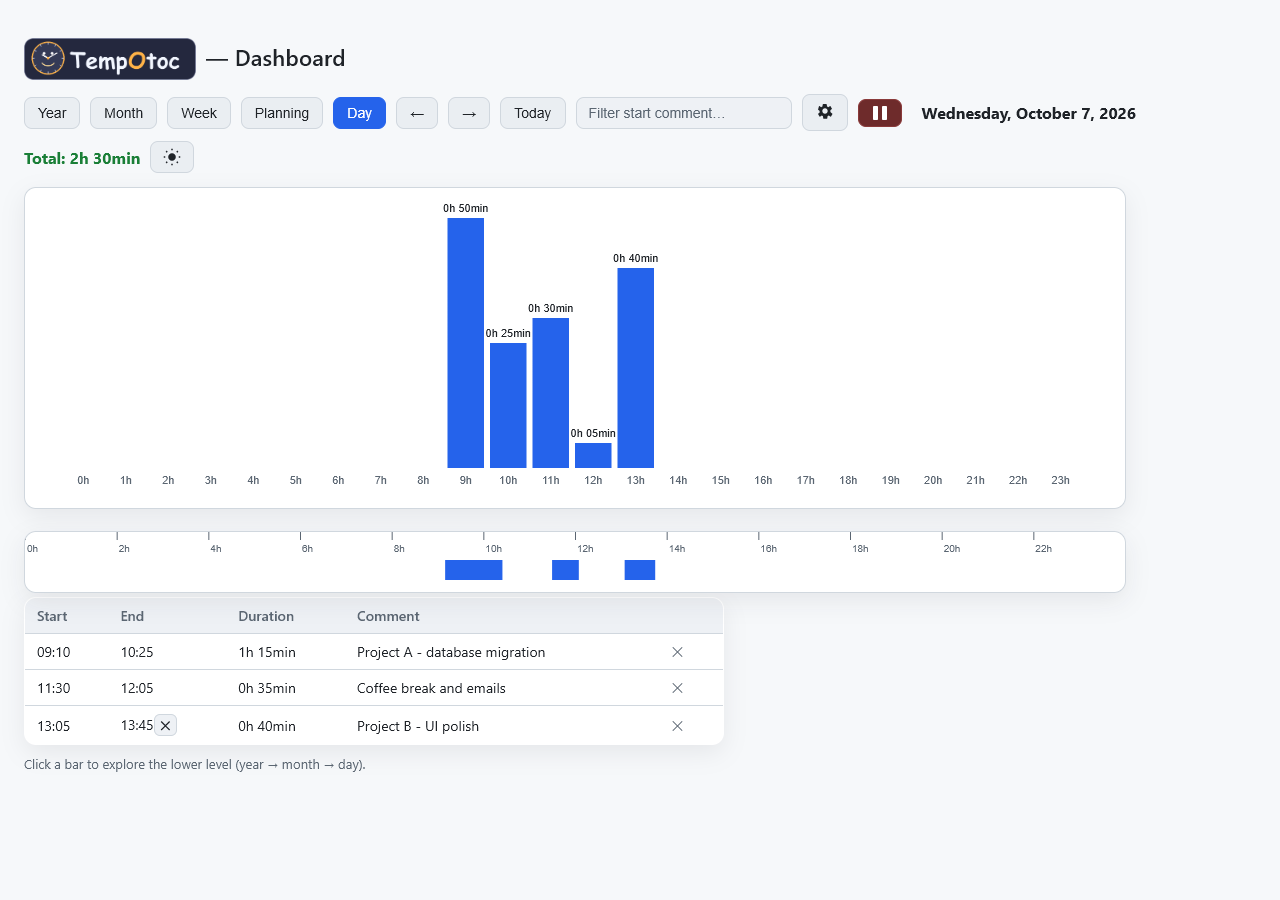
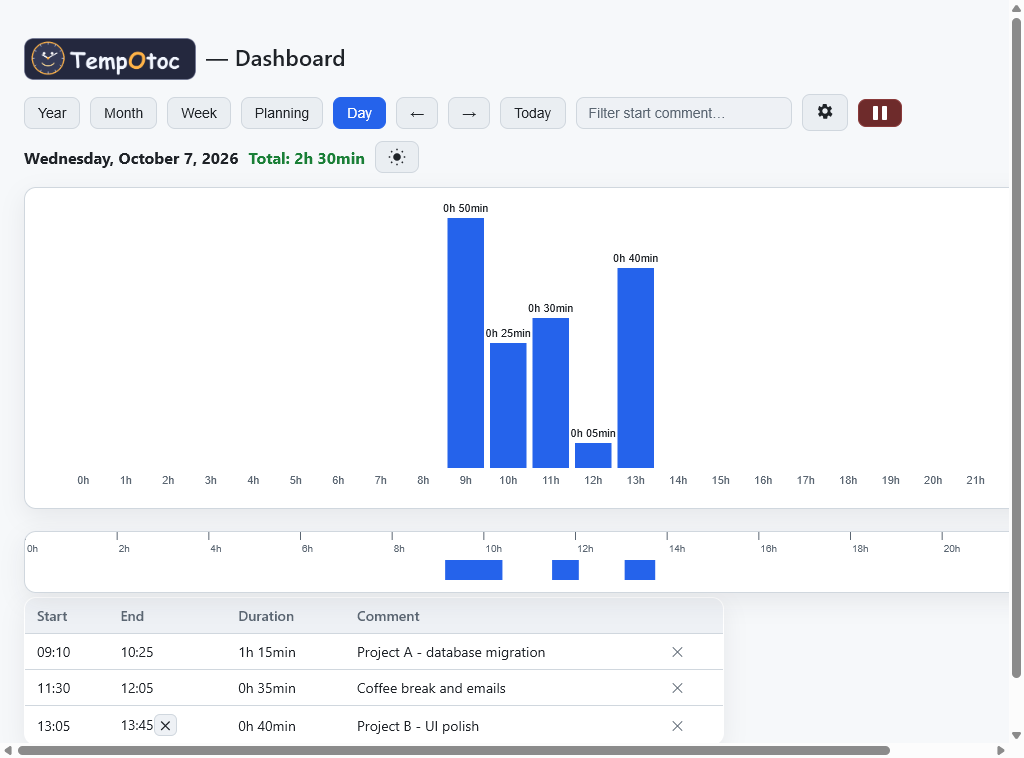
README: emphasize automatic logging + editable journal; refresh screenshots with full week

diff --git a/README.md b/README.md
@@ -10,6 +10,8 @@
 
 TempOtoc is a small desktop companion that takes care of a simple question: *where does your day go?*
 
+**Logging starts automatically.** Once TempOtoc runs, it tracks your time on its own — sessions and the idle gaps between them are recorded without you having to do anything. On top of that, the journal is fully yours: you can complete, correct and refine every entry with start/end comments, edits and deletions whenever you want.
+
 It runs quietly in the background. When you sit down to work, you press a button and say in one sentence what you're starting to do. When you stop, you press again, and you say what happened. In the evening, the weekend, the month, the year: TempOtoc shows you the map of your time, period by period, with your comments written next to each slice.
 
 No automatic tracking, no analysis of what you do on your machine: TempOtoc only notes what you tell it. It's a journal, not a cop.
@@ -32,7 +34,7 @@ No automatic tracking, no analysis of what you do on your machine: TempOtoc only
 
 ## What it does
 
-- **Clock in, in one sentence.** A "Start" button with a comment, a "Finish" button with a comment. The end comment is optional.
+- **Automatic by default.** Time is logged on its own — sessions and idle gaps are captured without manual timers. You then layer meaning on top: a "Start" button with a comment, a "Finish" button with a comment (optional), plus editing and deletion of any entry.
 - **See your time.** A dashboard with four views: Day (the list of periods, minute by minute), Week, Month, Year (charts and totals). Idle periods appear too — the time between two sessions is visible, not hidden.
 - **Filter.** A search field in the Day view selects the periods whose start comment contains a word — for example all "restarting" sessions, and the statistics are recomputed on the filter.
 - **Edit.** Every comment is editable directly in the list, including the ones on idle periods.
